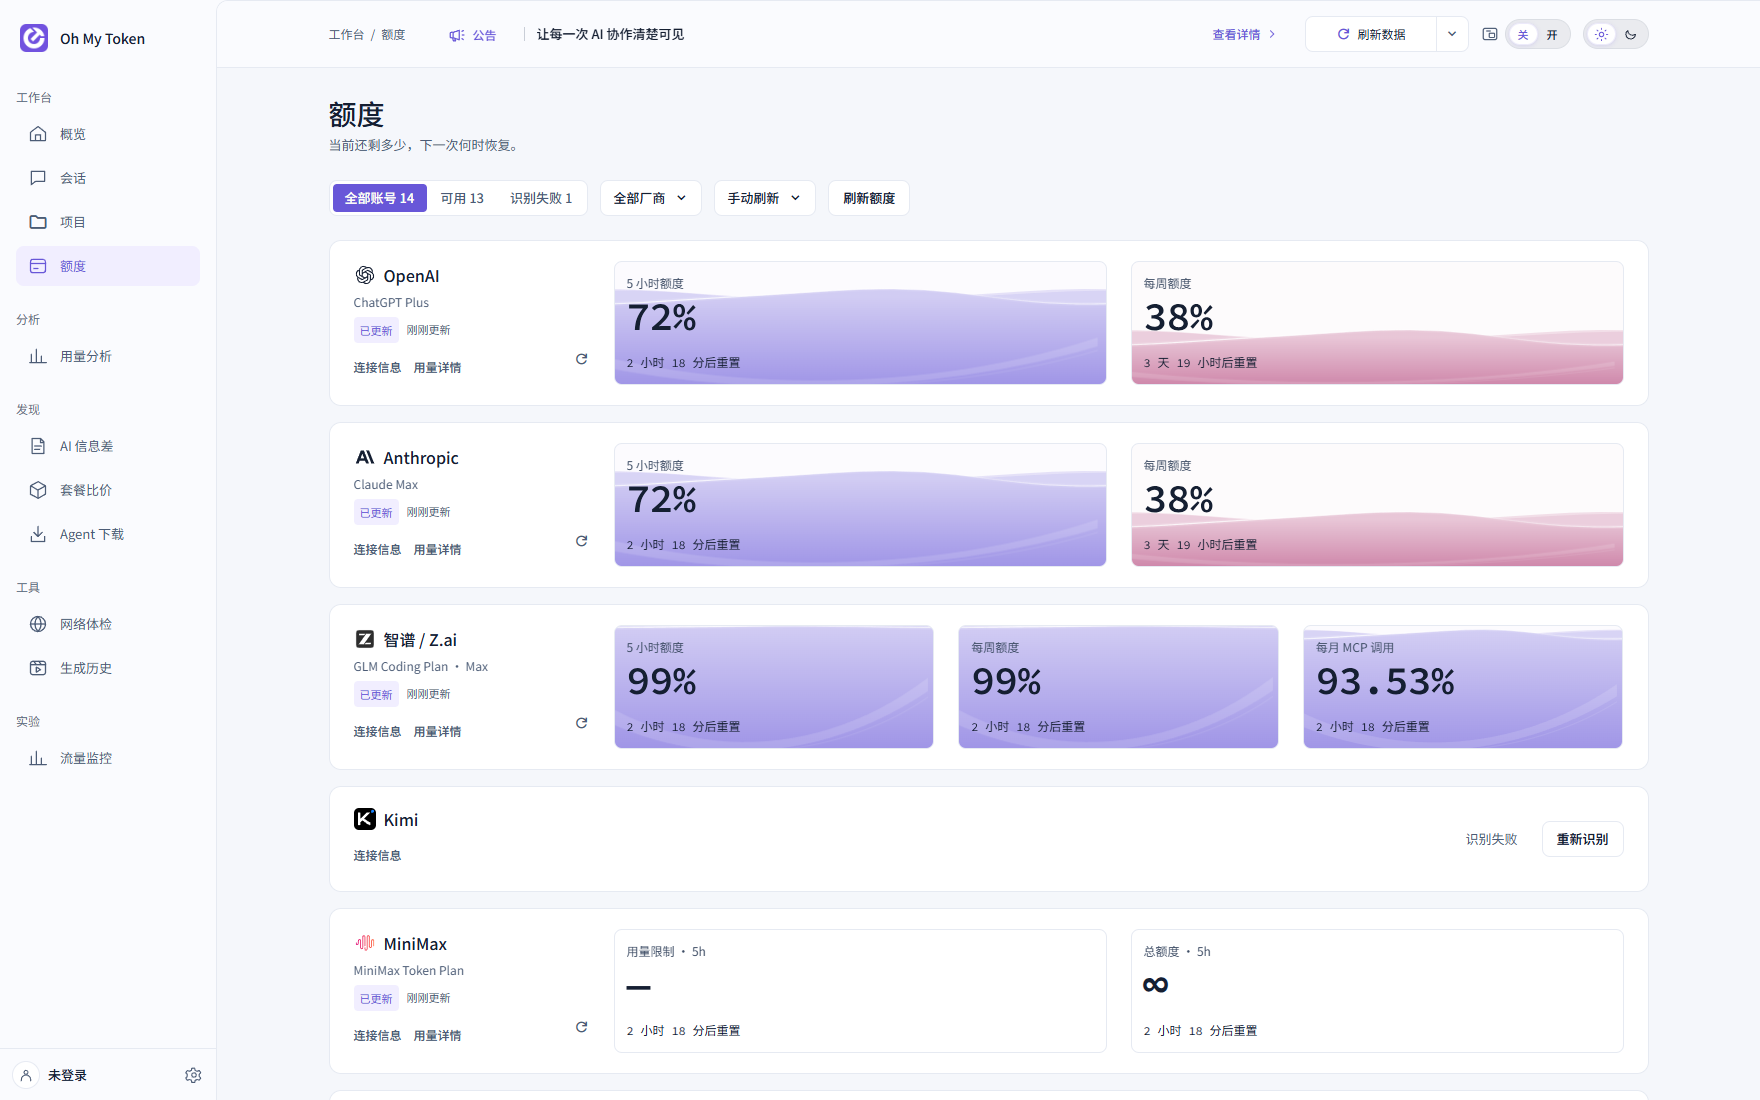
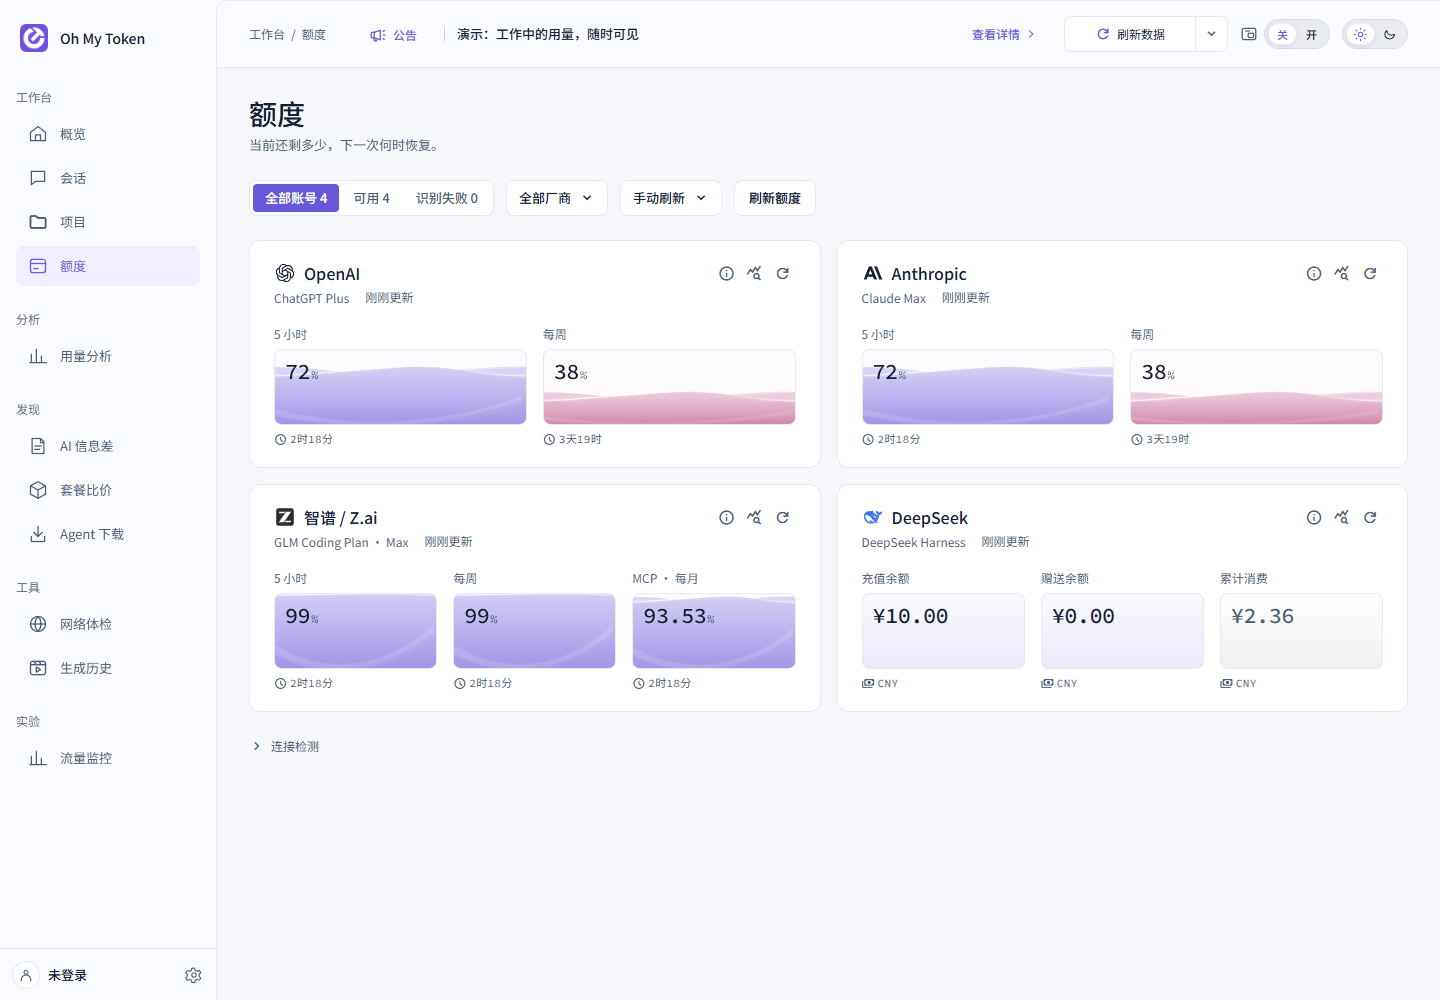
release: prepare desktop 2.0.3 and refresh bilingual previews

diff --git a/README_EN.md b/README_EN.md
@@ -18,7 +18,7 @@
   <a href="#product-preview">Product preview</a>
 </p>
 
-Oh My Token is a desktop app for understanding usage across multiple AI agents. It reads local usage records from [multiple supported agents](#supported-agents) and brings tokens, reference API costs, sessions, and projects into one workspace. Check provider quotas while you work, then turn your usage into a visual recap to share.
+Oh My Token is a desktop app for understanding usage across multiple AI agents. It reads local usage records from [multiple supported agents](#supported-agents) and brings tokens, reference API costs, sessions, and projects into one workspace. Check provider quotas and account balances while you work, then turn your usage into a visual recap to share.
 
 ## Product preview
 
@@ -38,13 +38,29 @@ Search and filter sessions, expand sub-sessions, and inspect model calls and tok
 
 [![Session workspace with a session list, filters, and usage details](docs/screenshots/readme/sessions-en.gif)](docs/screenshots/readme/sessions-en.png)
 
-### Check quotas before continuing
+<details>
+<summary>View the project workspace</summary>
 
-Discover supported provider connections on your computer and check remaining quotas, balances, and reset windows. Existing DeepSeek Harness sign-ins and DeepSeek API keys are supported, with account balances shown by currency. The floating window keeps tokens, sessions, and quotas within reach while you work, with an always-on-top toggle and session sorting.
+![Project list and selected project usage details](docs/screenshots/readme/projects-en.png)
 
-[![Provider quotas with remaining allowances and reset windows](docs/screenshots/readme/quota-en.gif)](docs/screenshots/readme/quota-en.png)
+</details>
+
+### Check quotas and balances
+
+Discover supported provider connections on your computer and check remaining quotas, account balances, and reset times together. Existing DeepSeek Harness sign-ins and DeepSeek API keys are supported, with balances shown by currency.
+
+[![Updated quota view with quota windows, reset times, and DeepSeek balances](docs/screenshots/readme/quota-en.gif)](docs/screenshots/readme/quota-en.png)
 
 Quota fields depend on the provider, account authorization, and connection. Support for scanning an agent's local usage does not imply support for querying its provider quota.
+
+### Keep usage within reach
+
+The desktop floating window has Token and Quota tabs. Collapse it for a quick summary or expand it for trends, followed sessions, and quota windows. Keep it on top, reorder sessions and followed accounts, and switch the expanded Quota view between bars and orbs.
+
+|                                                                                                                  Token                                                                                                                  |                                                                                                                          Quota                                                                                                                           |
+| :-------------------------------------------------------------------------------------------------------------------------------------------------------------------------------------------------------------------------------------: | :------------------------------------------------------------------------------------------------------------------------------------------------------------------------------------------------------------------------------------------------------: |
+| **Expanded**<br><a href="docs/screenshots/readme/floating-token-expanded-en.png"><img src="docs/screenshots/readme/floating-token-expanded-en.png" width="420" alt="Expanded Token window with usage trends and followed sessions"></a> |         **Expanded**<br><a href="docs/screenshots/readme/floating-quota-expanded-en.png"><img src="docs/screenshots/readme/floating-quota-expanded-en.png" width="420" alt="Expanded Quota window with followed accounts and quota windows"></a>         |
+|        **Collapsed**<br><a href="docs/screenshots/readme/floating-token-collapsed-en.png"><img src="docs/screenshots/readme/floating-token-collapsed-en.png" width="420" alt="Collapsed Token window with a usage summary"></a>         | **Collapsed**<br><a href="docs/screenshots/readme/floating-quota-collapsed-en.png"><img src="docs/screenshots/readme/floating-quota-collapsed-en.png" width="420" alt="Collapsed Quota window with balances, remaining allowances, and reset times"></a> |
 
 ### Create a usage recap to share
 
@@ -52,34 +68,33 @@ Turn local usage into animated rankings, trends, and changing shares, or a still
 
 [![Usage recap editor with animated rankings, a timeline, and export settings](docs/screenshots/readme/replay-en.gif)](docs/screenshots/readme/replay-en.png)
 
-Cloud discovery content also offers plan and API price comparison, an agent directory, and AI insights. Loading this content requires a network connection.
+### Discover insights and tools
 
-<details>
-<summary>More screens: analytics, projects, plan comparison, and AI insights</summary>
-
-#### Usage analytics
-
-![Usage analytics by model, agent, and project](docs/screenshots/readme/analytics-en.png)
-
-#### Project workspace
-
-![Project list and selected project usage details](docs/screenshots/readme/projects-en.png)
+Discover brings together plan and API price comparison, AI insights, and agent downloads. These features require an internet connection.
 
 #### Plan and API price comparison
+
+Compare plans by billing period and check model API prices to find options that fit your workload.
 
 ![Provider plan comparison with billing-period filters](docs/screenshots/readme/plans-en.png)
 
 #### AI insights
 
-![AI insights articles and category filters](docs/screenshots/readme/insights-en.png)
+Browse articles about models, tools, and practical workflows by category, then open an article to read more.
 
-</details>
+![AI insights with category filters, featured articles, and reading links](docs/screenshots/readme/insights-en.png)
+
+#### Agent downloads
+
+Filter agents by platform and tool type, then explore their overviews, installation guides, and official links.
+
+![Agent downloads with featured tools, platform filters, and an agent catalog](docs/screenshots/readme/agents-en.png)
 
 ## Supported agents
 
-Supports multiple agents, with ongoing updates.
+A selection of supported agents is shown below. Support continues to grow.
 
-[![DeepSeek Harness, Codex, MiniMax Code, OpenCode, Z Code, WorkBuddy, KimiWork, Kimi Code, Gemini CLI, Qwen Code, OpenClaw, Grok, Hermes, and Claude Code](docs/screenshots/readme/supported-agents.gif)](docs/screenshots/readme/supported-agents.png)
+[![DeepSeek Harness, Codex, MiniMax Code, OpenCode, Z Code, WorkBuddy, KimiWork, Kimi Code, Antigravity, Qwen Code, OpenClaw, Grok, Hermes, and Claude Code](docs/screenshots/readme/supported-agents.gif)](docs/screenshots/readme/supported-agents.png)
 
 Available details depend on what each agent records locally. Token breakdowns and generation metrics vary by source; some sources provide estimated generation rates.
 
